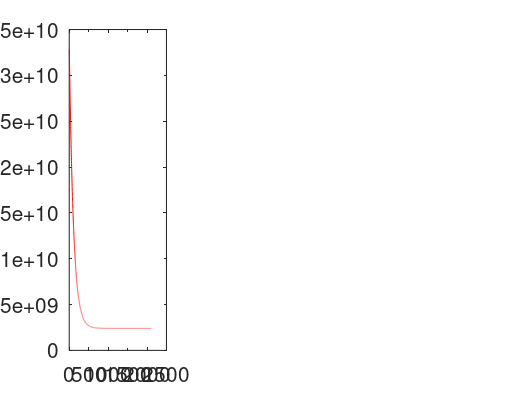
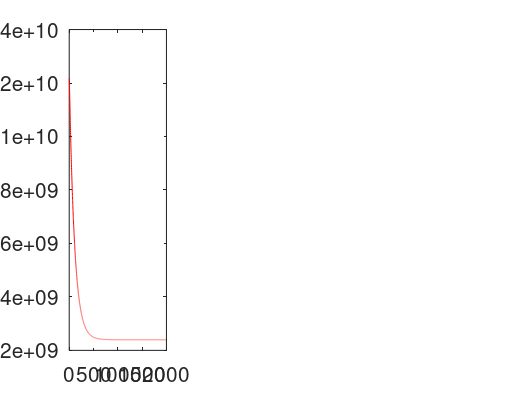
Add files via upload

diff --git a/Octave/GradientDescent.m b/Octave/GradientDescent.m
@@ -11,7 +11,7 @@ global y = ex1data2(:,3);
 x0 = x(:,1);
 x1 = x(:,2);
 
-theta = ones((n+1),1)*50;
+theta = ones((n+1),1)*100;
 
 x1avg = mean(x1);
 x1 = (x1.-(range(x1)/2))/x1avg;
@@ -55,8 +55,8 @@ for i = 1:length(thetamat)
 	printf(["\tTheta " int2str(i-1) ": " num2str(thetamat(i)) " \n"])
 end
 
-theta0_vals = linspace(-10, 10, 100);
-theta1_vals = linspace(-1, 4, 100);
+theta0_vals = linspace(theta(1)*0.5, theta(1)*1.5, 100);
+theta1_vals = linspace(theta(2)*0.5, theta(2)*1.5, 100);
 
 % initialize J_vals to a matrix of 0's
 J_vals = zeros(length(theta0_vals), length(theta1_vals));
@@ -80,13 +80,13 @@ printf(["\n\t" int2str(CommaFormat(length(iterations(:,1)))) " ITERATIONS COMPLE
 
 xaxis = [ones(length(y),1) linspace(0,max(x(:,2)),length(y))'];
 
-figure(1); plot(iterations(:,1),iterations(:,2),'r');
+figure(1); %plot(iterations(:,1),iterations(:,2),'r');
 close;
 
-figure(2); scatter(x(:,2:(n+1)),y,'g','c','filled'), hold on, plot(xaxis,xaxis*theta,'b');
+figure(2); %scatter(x(:,2:(n+1)),y,'g','c','filled'), hold on, plot(xaxis,xaxis*theta,'b');
 close;
 
-figure(3); surf(theta0_vals, theta1_vals, J_vals)
+figure(3); %surf(theta0_vals, theta1_vals, J_vals)
 close;
 
 clf;
@@ -111,10 +111,12 @@ title("Line of Best Fit")
 set(gca,'box','on');
 
 subplot(1,3,3,"position",get(0,"screensize"))
-bowl = surf(theta0_vals, theta1_vals, J_vals)
+bowl = surfc(theta0_vals, theta1_vals, J_vals)
 hold on;
 xlabel('\theta_0'); ylabel('\theta_1');
 axis ("square");
 title("Cost Function Minimization")
 set(gca,'box','on');
+pos = get(0,"screensize")
+set(gcf, 'Position', [0 -115 pos(:,3:4)]);
 
